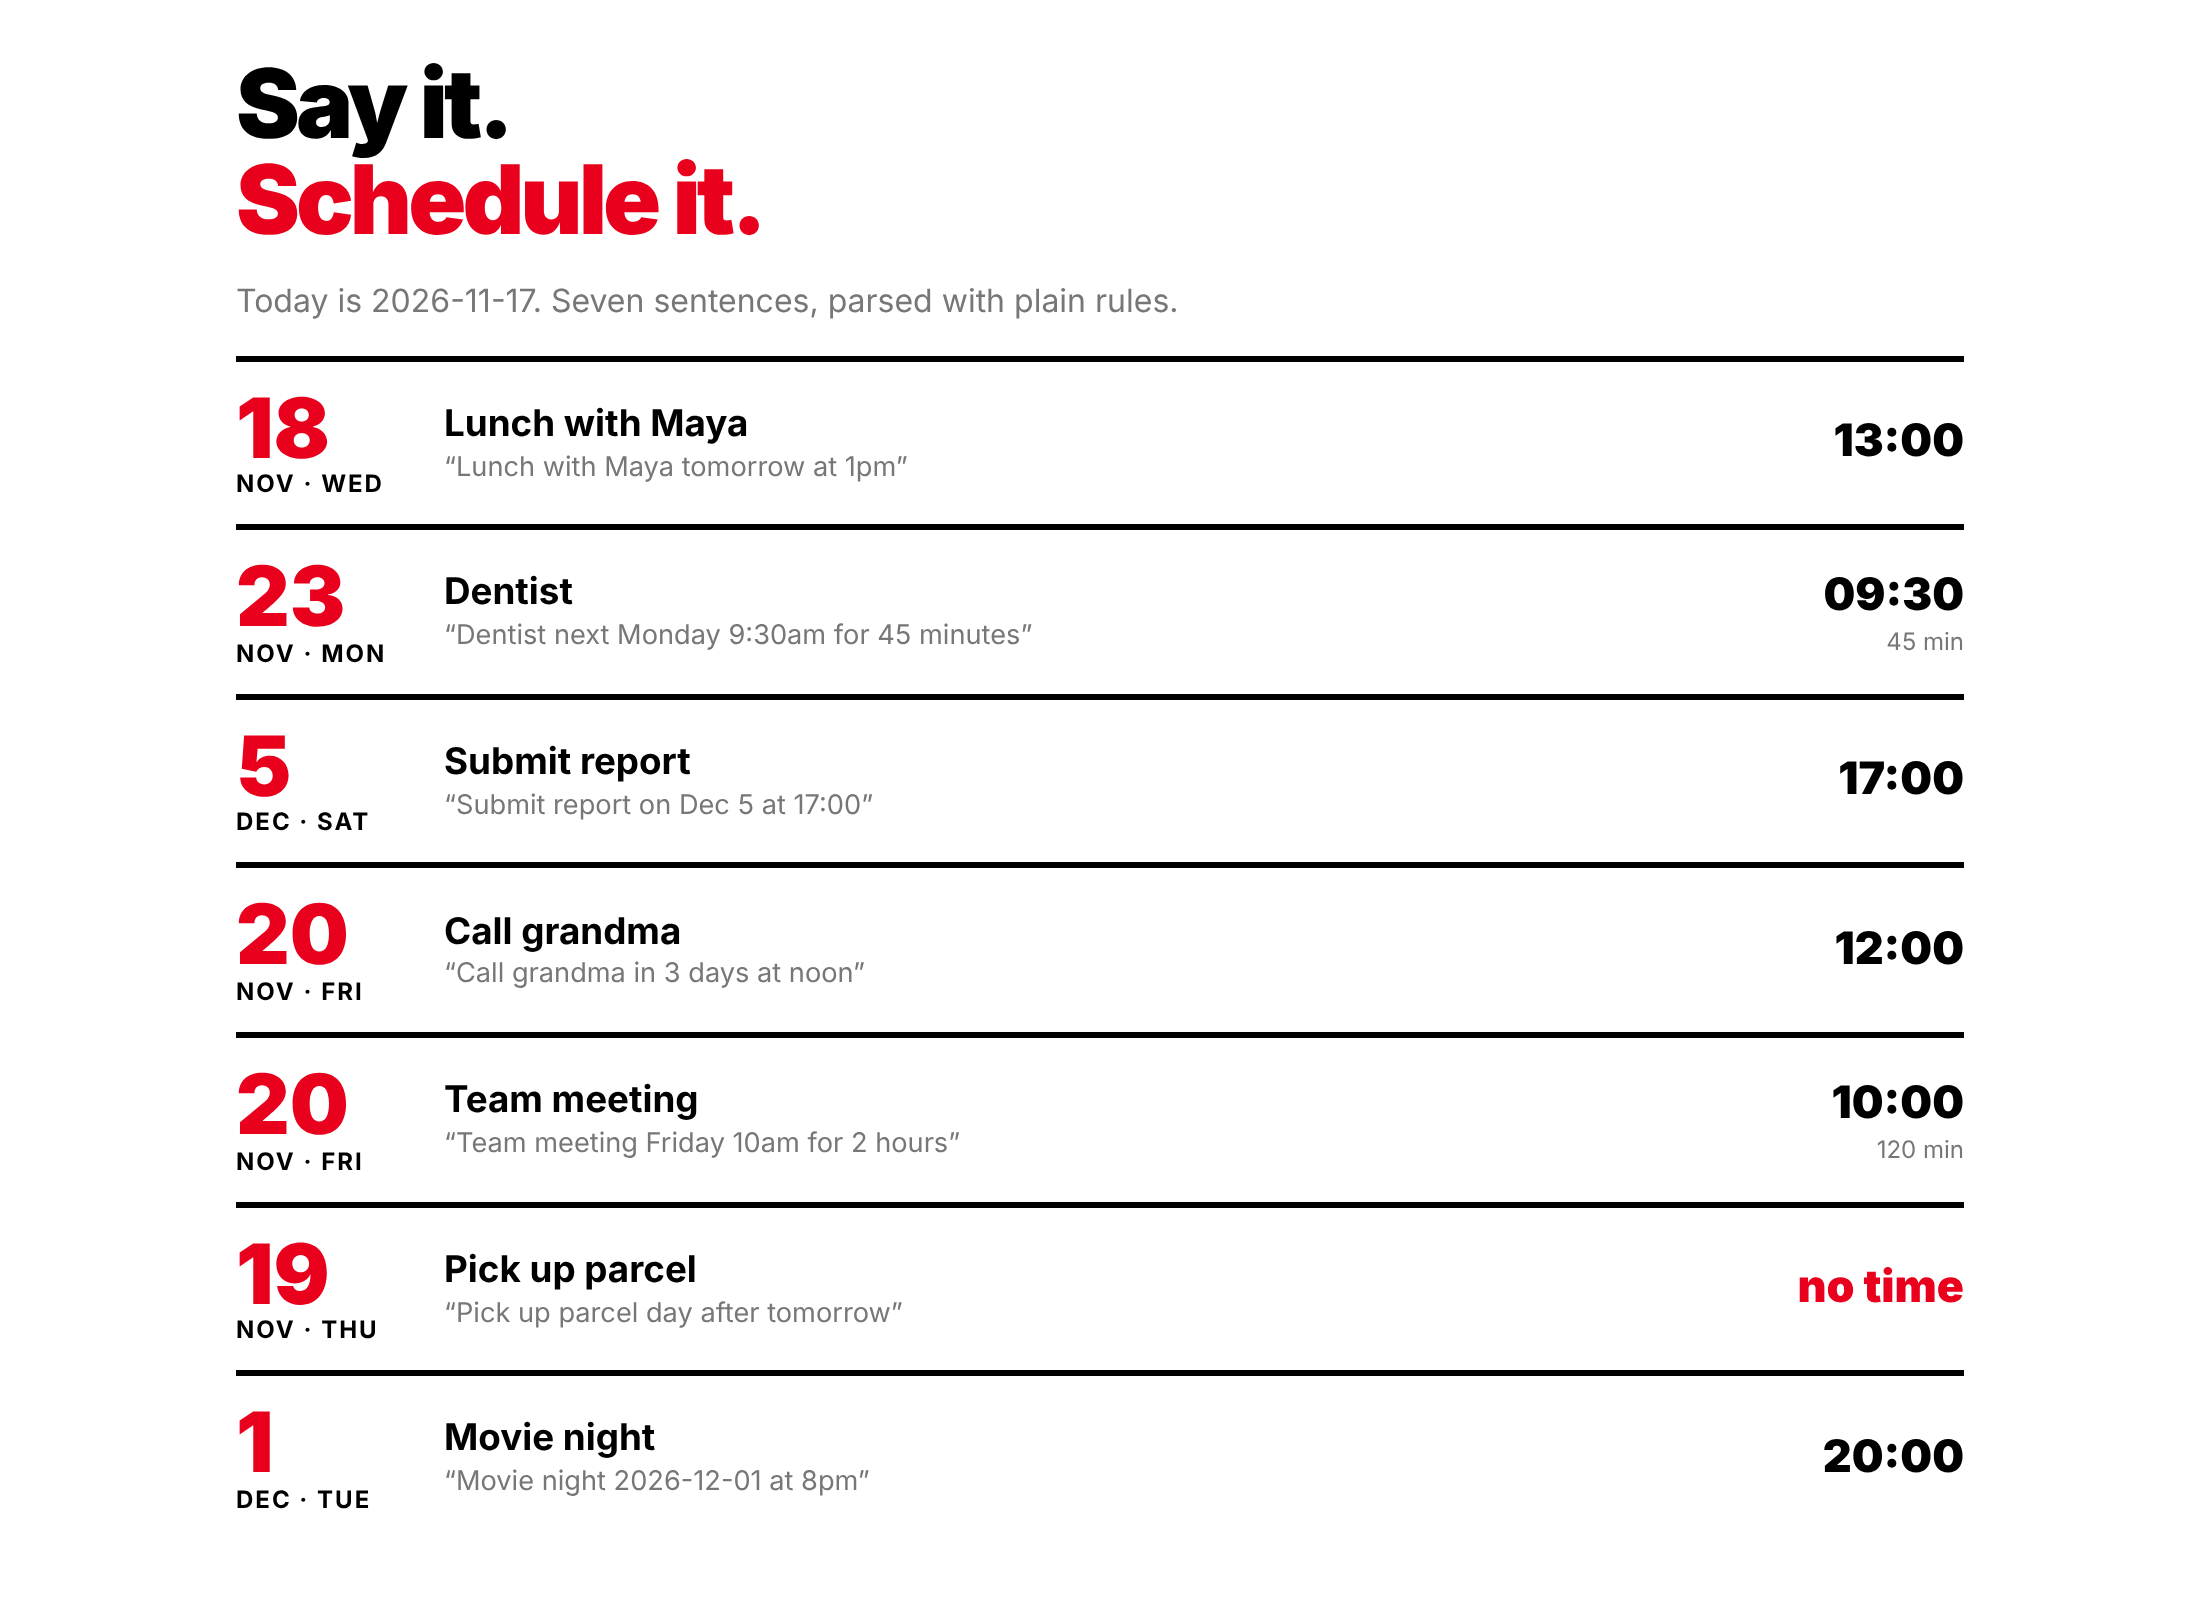
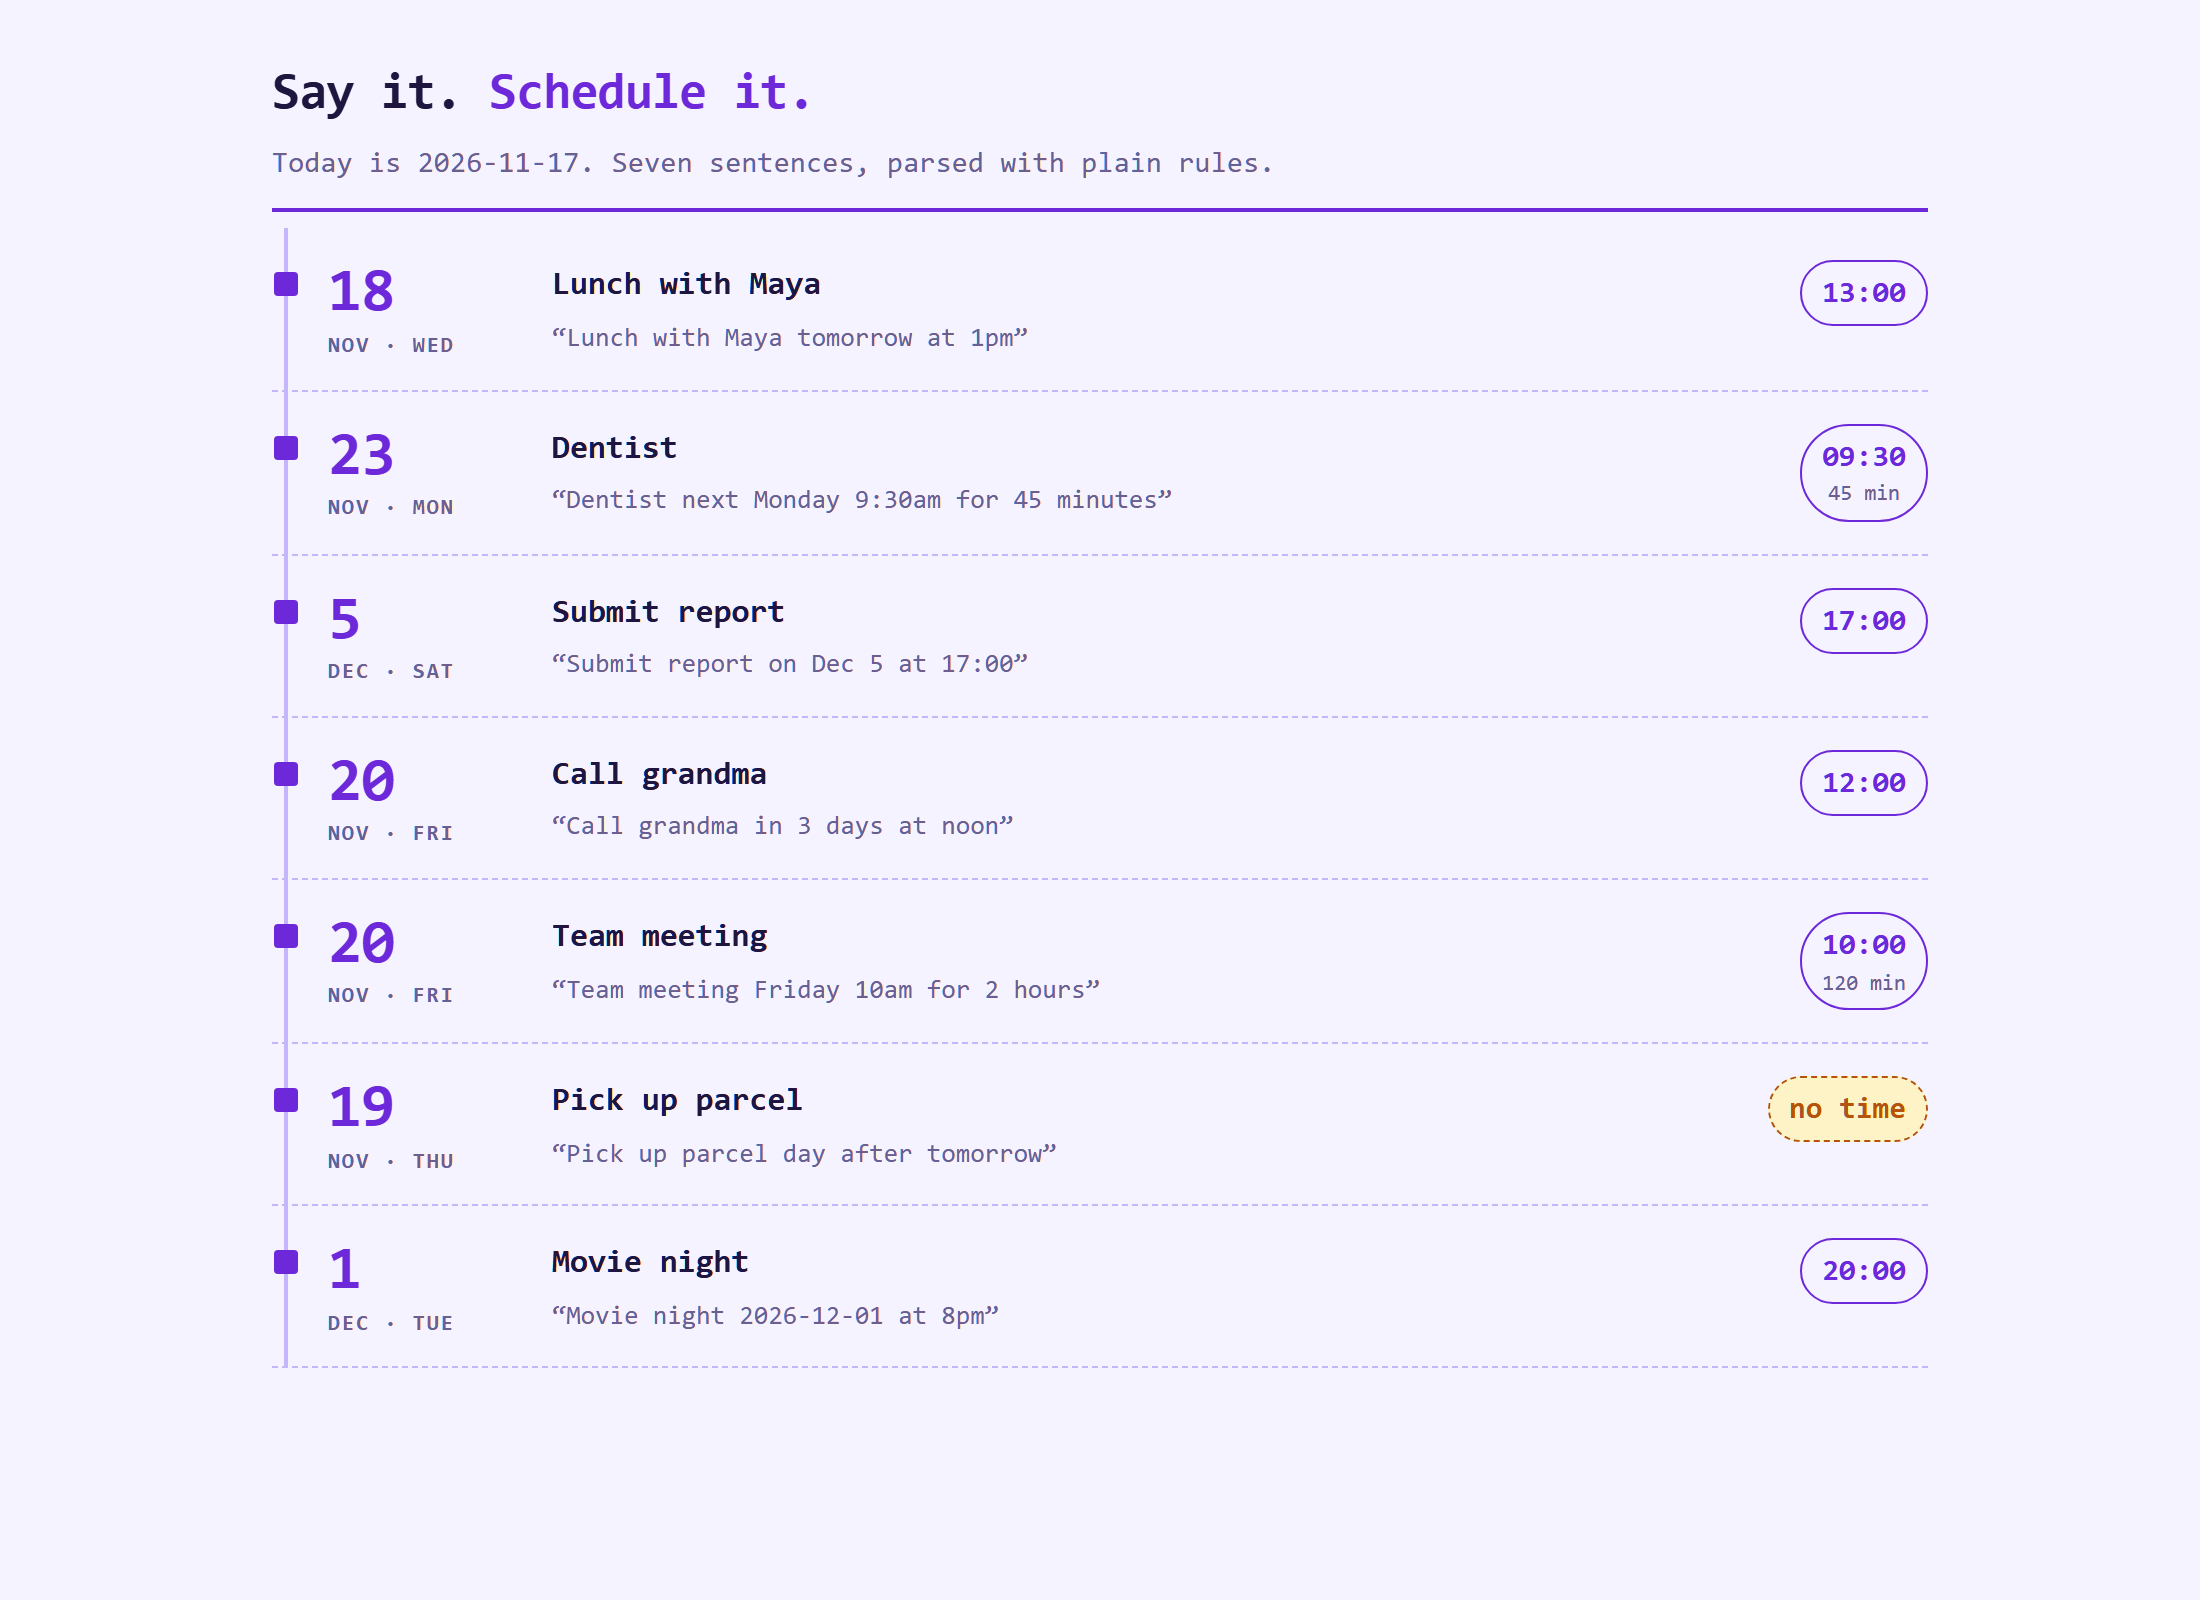
Redesign frontend: quick-event-parser

diff --git a/static/index.html b/static/index.html
@@ -2,23 +2,54 @@
 <html lang="en"><head><meta charset="utf-8"><meta name="viewport" content="width=device-width,initial-scale=1">
 <title>Quick Event Parser</title>
 <style>
-:root{--bg:#fff;--ink:#000;--red:#e8001c;--mute:#777;--rule:#000}
-*{box-sizing:border-box}body{margin:0;background:var(--bg);color:var(--ink);font:16px/1.35 "Helvetica Neue",Helvetica,Arial,sans-serif}
-main{max-width:900px;margin:0 auto;padding:28px 18px}h1{margin:0;font-size:3rem;line-height:1;letter-spacing:-2px;font-weight:900}h1 span{color:var(--red)}p{color:var(--mute)}
-.ev{display:grid;grid-template-columns:90px 1fr 130px;gap:14px;border-top:3px solid var(--rule);padding:14px 0;align-items:center}
-.d{font-size:2.6rem;font-weight:900;line-height:1;color:var(--red)}.d small{display:block;font-size:.75rem;color:var(--ink);letter-spacing:1px;text-transform:uppercase;font-weight:700}
-.t{font-weight:700;font-size:1.15rem}.src{color:var(--mute);font-size:.85rem}.time{text-align:right;font-weight:900;font-size:1.4rem}.time small{display:block;font-size:.75rem;color:var(--mute);font-weight:400}
-.warn{color:var(--red)}
-@media(max-width:560px){.ev{grid-template-columns:70px 1fr}.time{grid-column:2;text-align:left}}
+:root{--bg:#f5f3ff;--surface:#ffffff;--ink:#1f1640;--accent:#6d28d9;--warn:#b45309;--warn-bg:#fef3c7;--rule:#c4b5fd;--mute:#6b5f8f;color-scheme:light}
+@media (prefers-color-scheme: dark){:root:not([data-theme="light"]){--bg:#15112a;--surface:#1d1838;--ink:#ece8ff;--accent:#a78bfa;--warn:#fbbf24;--warn-bg:#3a2e0c;--rule:#3b3166;--mute:#a79bd0;color-scheme:dark}}
+:root[data-theme="dark"]{--bg:#15112a;--surface:#1d1838;--ink:#ece8ff;--accent:#a78bfa;--warn:#fbbf24;--warn-bg:#3a2e0c;--rule:#3b3166;--mute:#a79bd0;color-scheme:dark}
+*{box-sizing:border-box}
+html,body{background:var(--bg)}
+body{margin:0;color:var(--ink);font:15px/1.5 Consolas,"Cascadia Mono","Liberation Mono",Menlo,monospace}
+main{max-width:860px;margin:0 auto;padding:26px 16px 40px}
+.head{border-bottom:2px solid var(--accent);padding-bottom:12px;margin-bottom:8px}
+h1{margin:0;font-size:1.6rem;font-weight:700;letter-spacing:-.02em}
+h1 span{color:var(--accent)}
+#sub{margin:6px 0 0;color:var(--mute);font-size:.92rem}
+#out{position:relative}
+.ev{position:relative;display:grid;grid-template-columns:96px 1fr auto;gap:16px;padding:16px 0 16px 28px;border-bottom:1px dashed var(--rule);align-items:start}
+.ev::before{content:"";position:absolute;left:6px;top:0;bottom:0;width:2px;background:var(--rule)}
+.ev::after{content:"";position:absolute;left:1px;top:22px;width:12px;height:12px;border-radius:2px;background:var(--accent)}
+.ev.nodate::after{background:var(--warn)}
+.d{font-size:1.9rem;font-weight:700;line-height:1;color:var(--accent)}
+.d small{display:block;margin-top:6px;font-size:.7rem;color:var(--mute);text-transform:uppercase;letter-spacing:.08em}
+.t{font-weight:700;font-size:1.02rem;overflow-wrap:anywhere}
+.src{margin-top:4px;color:var(--mute);font-size:.82rem;overflow-wrap:anywhere}
+.time{white-space:nowrap;padding:4px 10px;border-radius:999px;border:1px solid var(--accent);color:var(--accent);font-weight:700;font-size:.95rem;text-align:center}
+.time small{display:block;font-size:.68rem;font-weight:400;color:var(--mute)}
+.time.warn{border-style:dashed;border-color:var(--warn);color:var(--warn);background:var(--warn-bg)}
+@media(max-width:560px){.ev{grid-template-columns:72px 1fr;padding-left:24px}.time{grid-column:2;justify-self:start}.d{font-size:1.5rem}}
 </style></head><body><main>
-<h1>Say it.<br><span>Schedule it.</span></h1><p id="sub"></p><div id="out"></div></main>
+<header class="head"><h1>Say it. <span>Schedule it.</span></h1><p id="sub"></p></header>
+<section id="out" aria-live="polite"></section>
+</main>
 <script>
 const M=["Jan","Feb","Mar","Apr","May","Jun","Jul","Aug","Sep","Oct","Nov","Dec"];
+const el=(tag,cls,text)=>{const n=document.createElement(tag);if(cls)n.className=cls;if(text!==undefined)n.textContent=text;return n};
 (async()=>{
   const s=await (await fetch("/sample")).json();
   const r=await (await fetch("/parse",{method:"POST",headers:{"Content-Type":"application/json"},body:JSON.stringify({sentences:s.sentences,today:s.today})})).json();
   document.getElementById("sub").textContent=`Today is ${s.today}. Seven sentences, parsed with plain rules.`;
-  document.getElementById("out").innerHTML=r.events.map(e=>{const d=e.date?new Date(e.date+"T00:00"):null;
-   return `<div class="ev"><div class="d">${d?d.getDate():"?"}<small>${d?M[d.getMonth()]+" · "+e.weekday.slice(0,3):"no date"}</small></div><div><div class="t">${e.title}</div><div class="src">“${e.text}”</div></div><div class="time ${e.time?"":"warn"}">${e.time||"no time"}<small>${e.duration_min?e.duration_min+" min":""}</small></div></div>`}).join("");
+  const out=document.getElementById("out");
+  for(const e of r.events){
+    const d=e.date?new Date(e.date+"T00:00"):null;
+    const row=el("div",d?"ev":"ev nodate");
+    const day=el("div","d",d?String(d.getDate()):"?");
+    day.appendChild(el("small",null,d?M[d.getMonth()]+" · "+e.weekday.slice(0,3):"no date"));
+    const body=el("div");
+    body.appendChild(el("div","t",e.title));
+    body.appendChild(el("div","src","“"+e.text+"”"));
+    const time=el("div",e.time?"time":"time warn",e.time||"no time");
+    if(e.duration_min)time.appendChild(el("small",null,e.duration_min+" min"));
+    row.append(day,body,time);
+    out.appendChild(row);
+  }
 })();
 </script></body></html>
